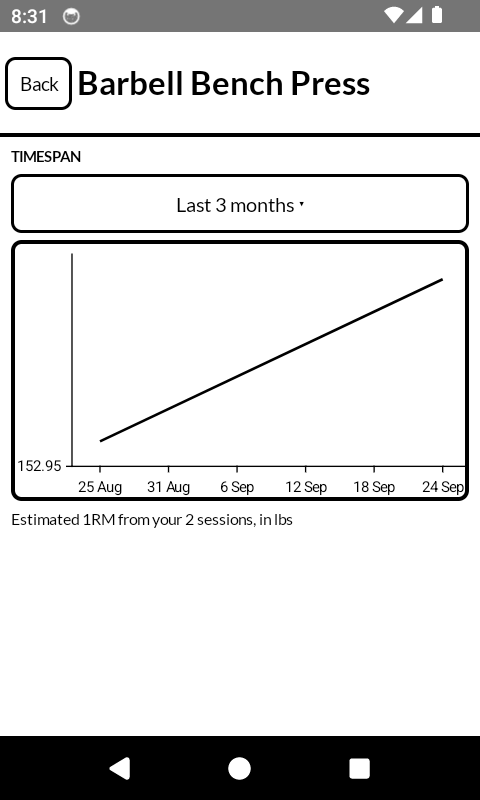
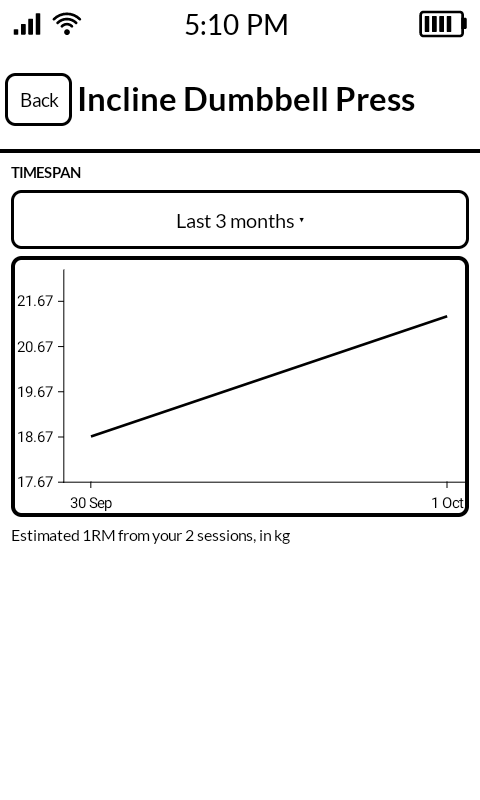
docs: replace the screenshots with the new set

diff --git a/README.md b/README.md
@@ -15,9 +15,17 @@ I have not written a single line of code manually as I do not know how and I did
 Grab `grunchy-1.0.apk` from [Releases](https://github.com/madnessofdoubt/grunchy/releases/latest)
 and install it on the phone (`adb install -r grunchy-1.0.apk`), or open it on the device itself.
 
+ HEAD
 ## Flow
 
 Choose your desired rep-ranges, weight pickers and whether you prefer kg or lbs in settings. Then, either start a freestyle workout (unplanned) and start logging your exercises and sets, or create a lasting routine which you can start over and over again. Once you complete your workout, it is saved under History. Your best sets are calculated and an estimated 1RM is inferred from them, which is then used to draw a graph to give you a visual idea of your progress!
+
+![](docs/plan_1.png)
+![](docs/plan_2.png)
+![](docs/graph.png)
+![](docs/history.png)
+![](docs/settings_1.png)
+![](docs/settings_2.png)
 
 ## Layout
 
